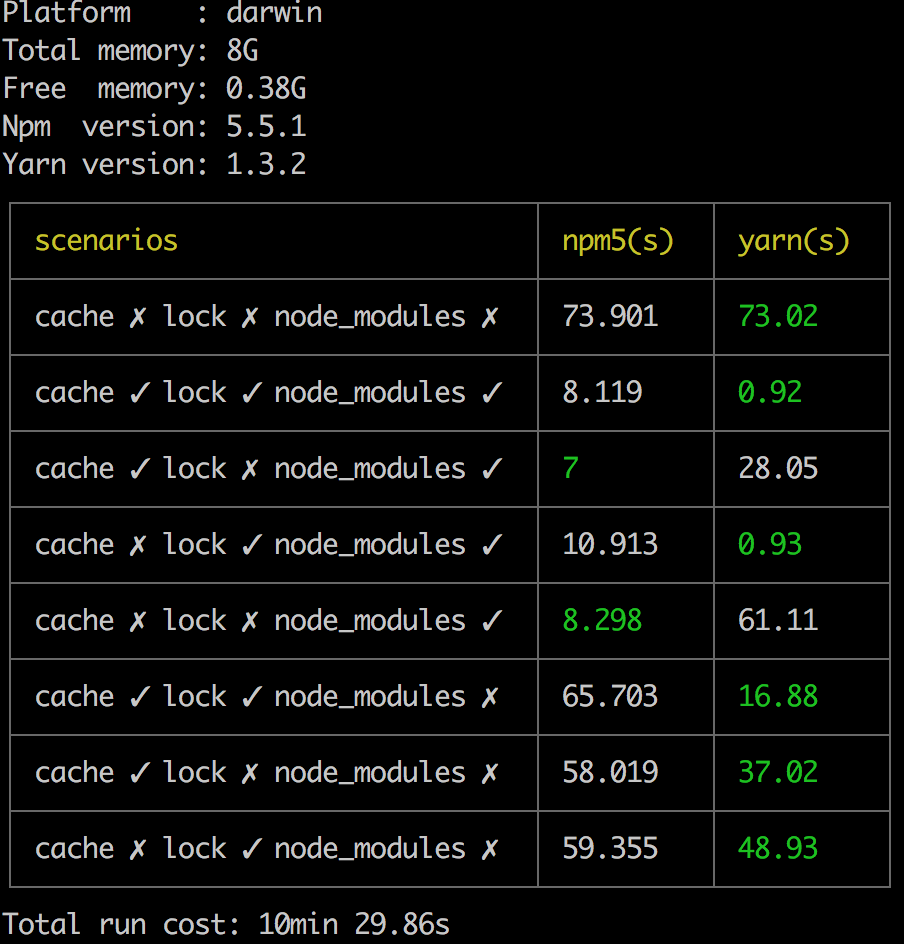
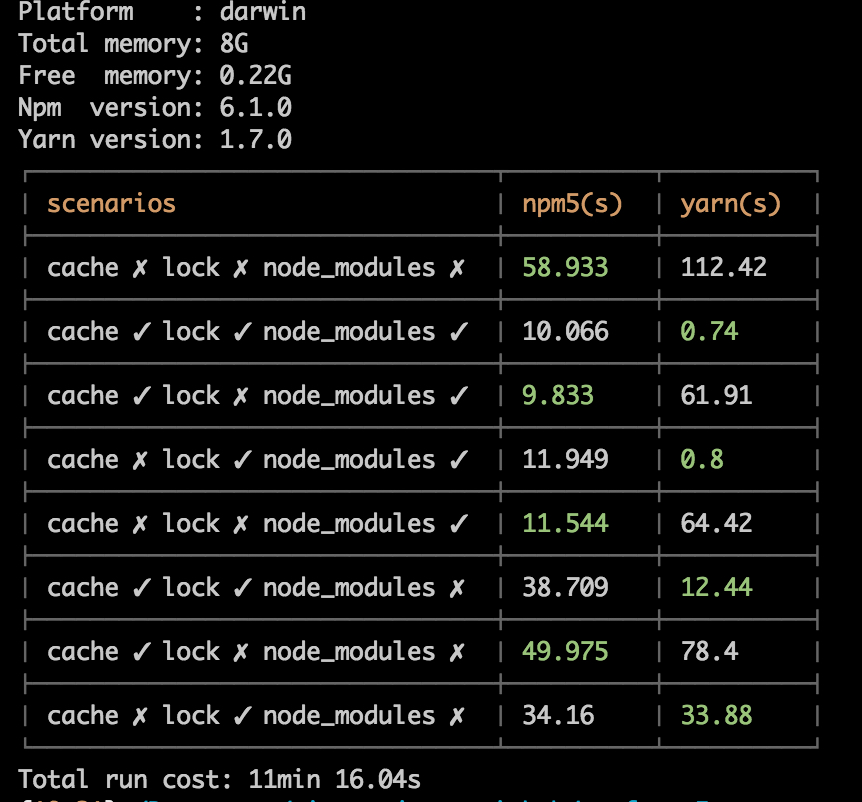
feat: change for "npm vs yarn"

diff --git a/run.js b/run.js
@@ -15,7 +15,7 @@ const totalTimeResults = []
 
 const ths = [
   'scenarios'.yellow,
-  'npm5(s)'.yellow,
+  'npm(s)'.yellow,
   'yarn(s)'.yellow,
 ]
 

diff --git a/README.md b/README.md
@@ -1,7 +1,7 @@
-# perf-npm5-vs-yarn
-> A performance test project for npm@5.x vs yarn.
+# perf-npm-vs-yarn
+> A performance test project for npm vs yarn.
 
-To use `npm@5.x` or `yarn`? Maybe you can get your answer from this project.
+To use `npm`(especially 5.x/6.x) or `yarn`? Maybe you can get your answer from this project.
 
 ## Usage
 First of all, you should install `npm` and `yarn` globally.
